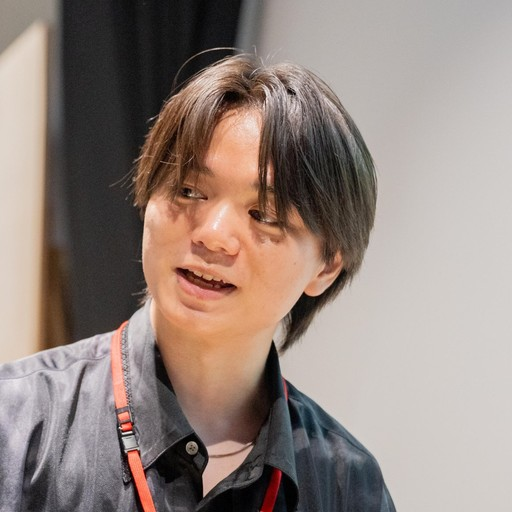
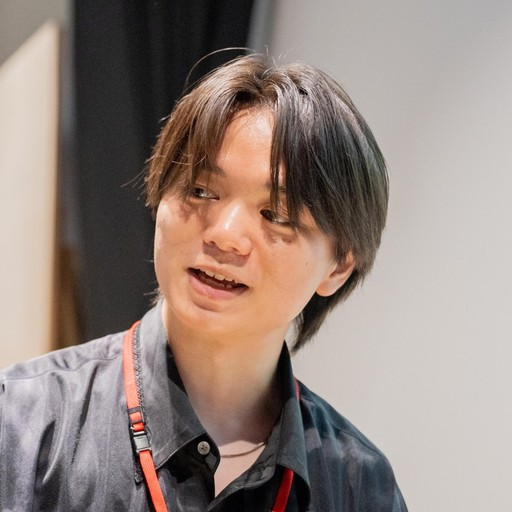
Add files via upload

diff --git a/index.html b/index.html
@@ -14,7 +14,7 @@
     <main class="p-4 max-w-4xl mx-auto text-center">
         <!-- title -->
         <h1 class="text-4xl pt-4">
-            💪<span class="font-bold">Primary Joint Effects</span> in Arm-Based Seated VR Locomotion
+            💪<span class="font-bold">Primary Joint Effects</span> in<br>Arm-Based Seated VR Locomotion
         </h1>
         <!-- venue -->
         <h2 class="pt-2 text-lg">
@@ -41,7 +41,7 @@
                     <img class="w-20 h-20 sm:w-28 sm:h-28 rounded-full" src="ryoma_itagaki.jpg" alt="ryoma portrait">
                     <div class="relative pt-2 px-2">
                         <figcaption class="text-center">
-                            <div class="text-base"><a class="text-sky-400 hover:text-sky-400/75" href="https://orcid.org/0009-0007-2653-6398" target="_blank">Ryoma Itagaki</a><sup class=" text-gray-400">1</sup></div>
+                            <div class="text-base"><a class="text-sky-400 hover:text-sky-400/75" href="https://www.rm2c.ise.ritsumei.ac.jp/" target="_blank">Ryoma Itagaki</a><sup class=" text-gray-400">1</sup></div>
                         </figcaption>
                     </div>
                 </div>
